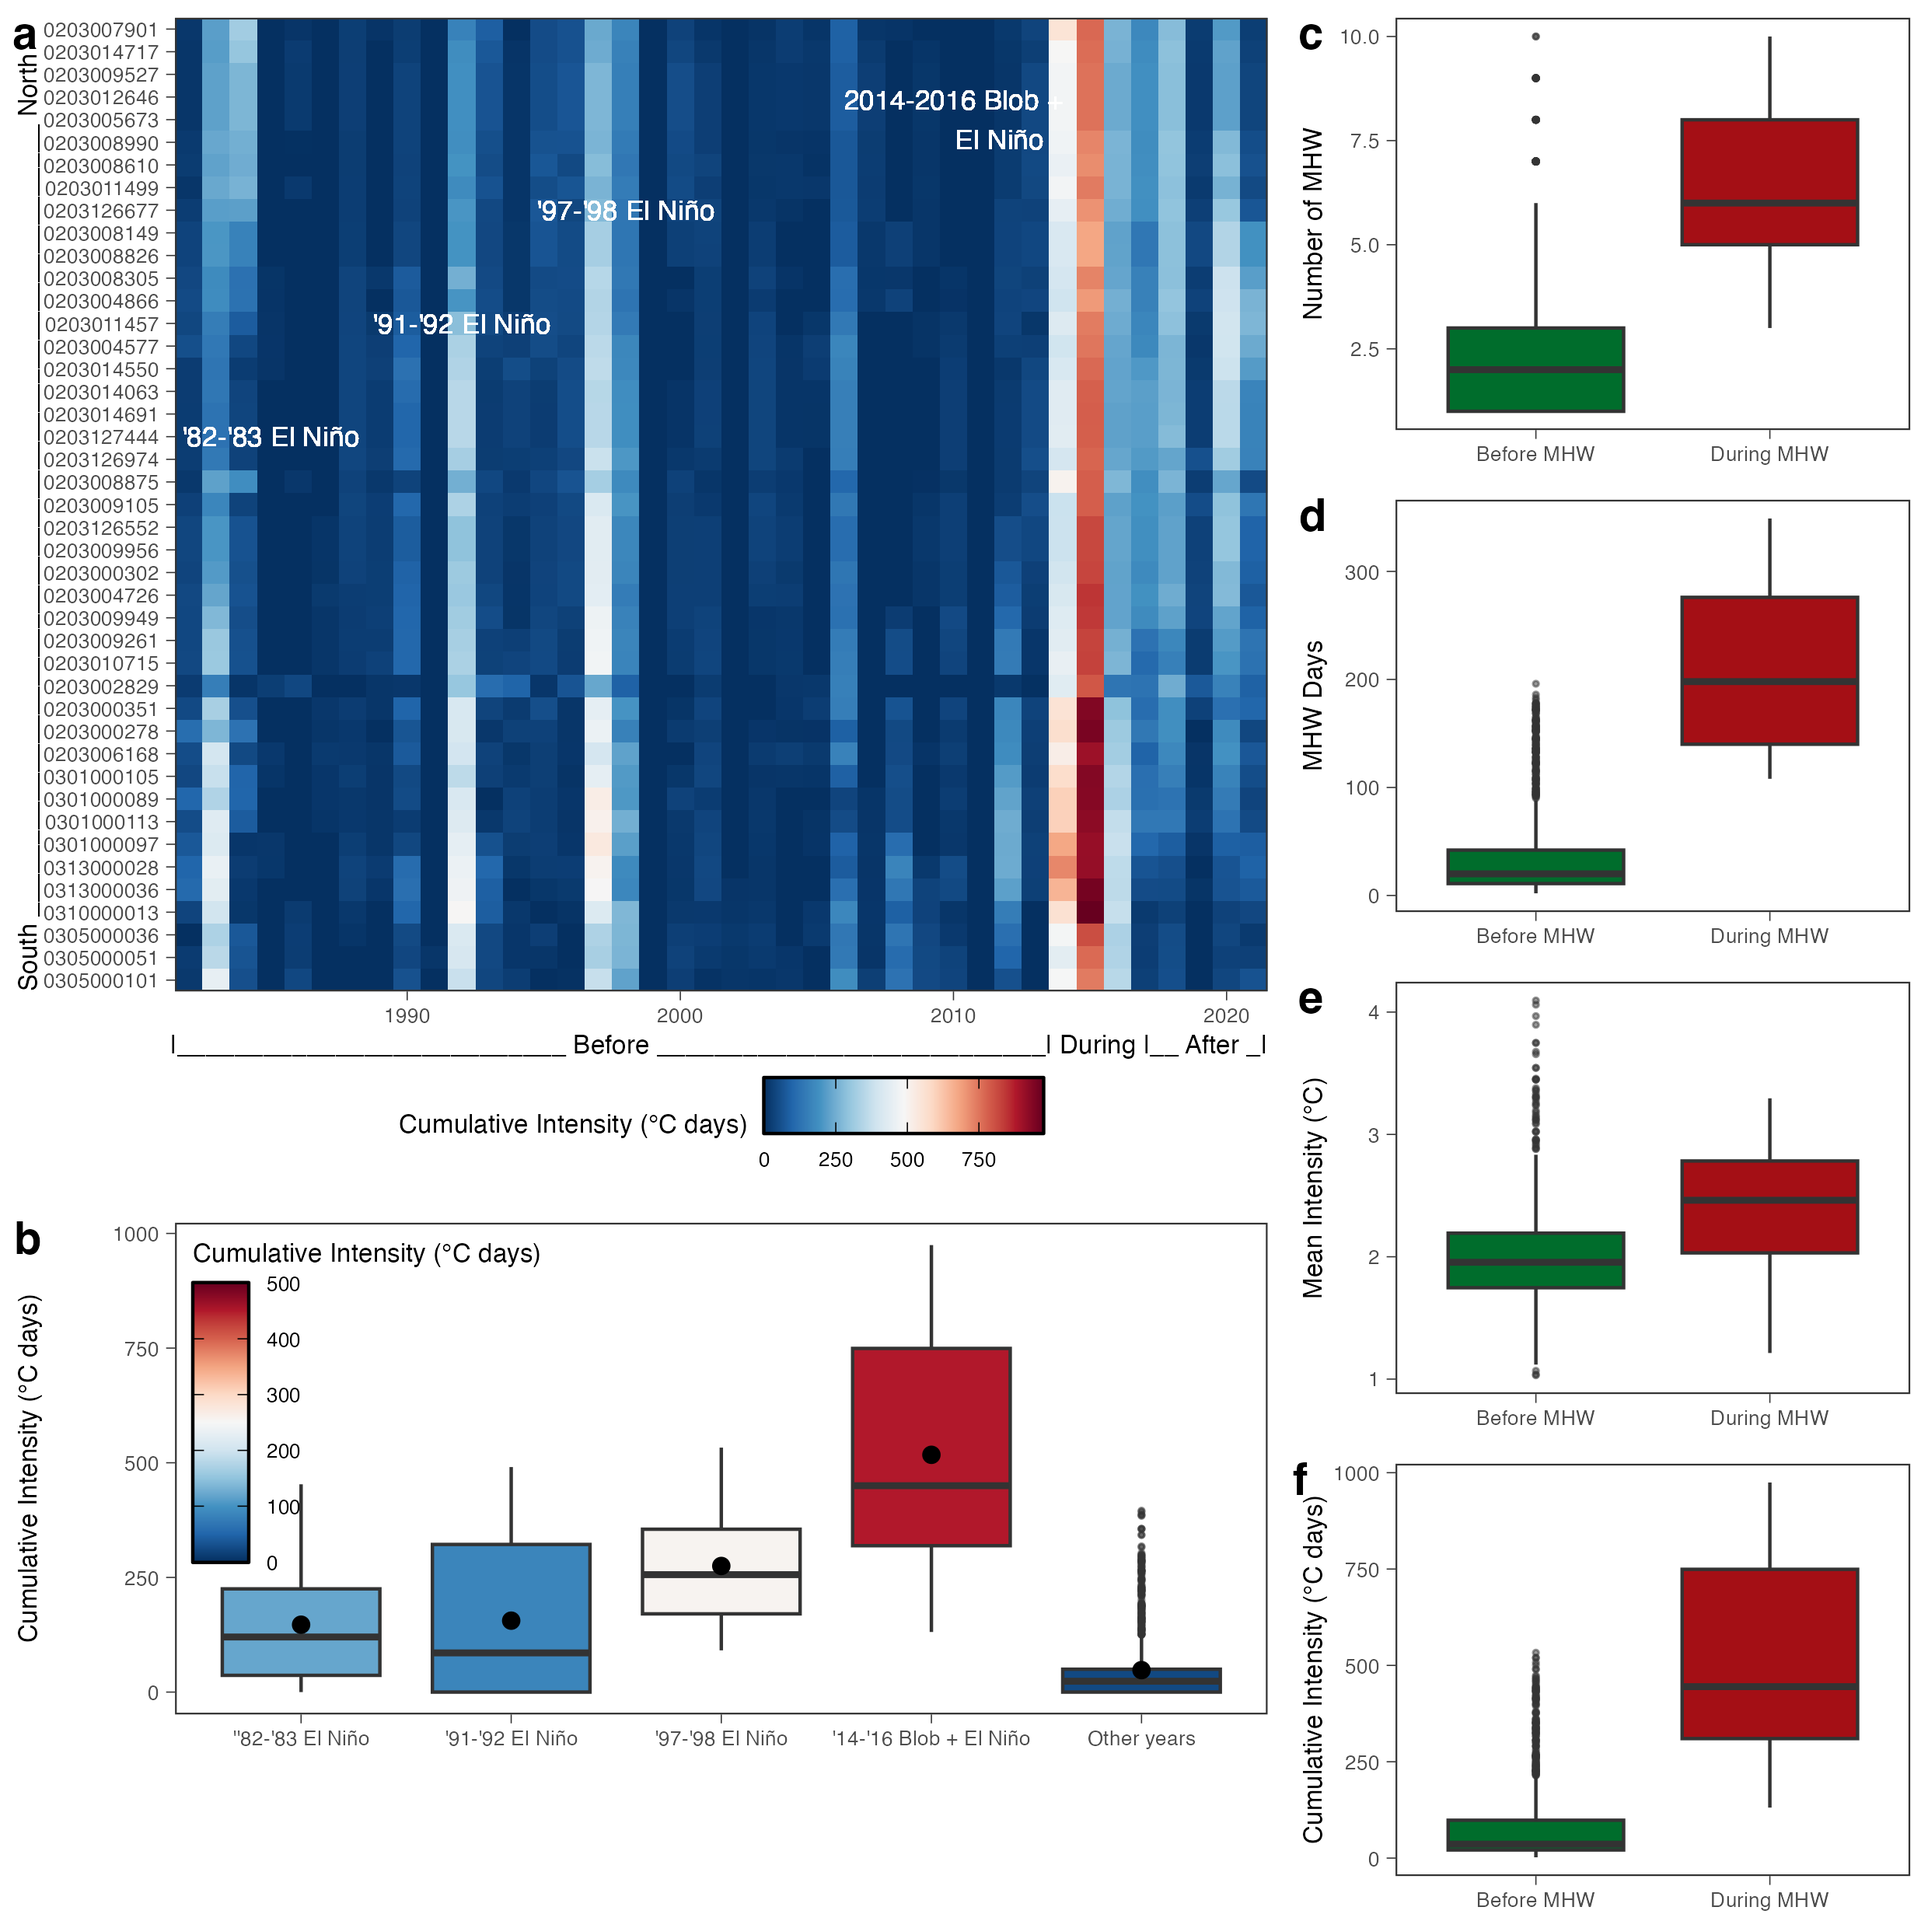
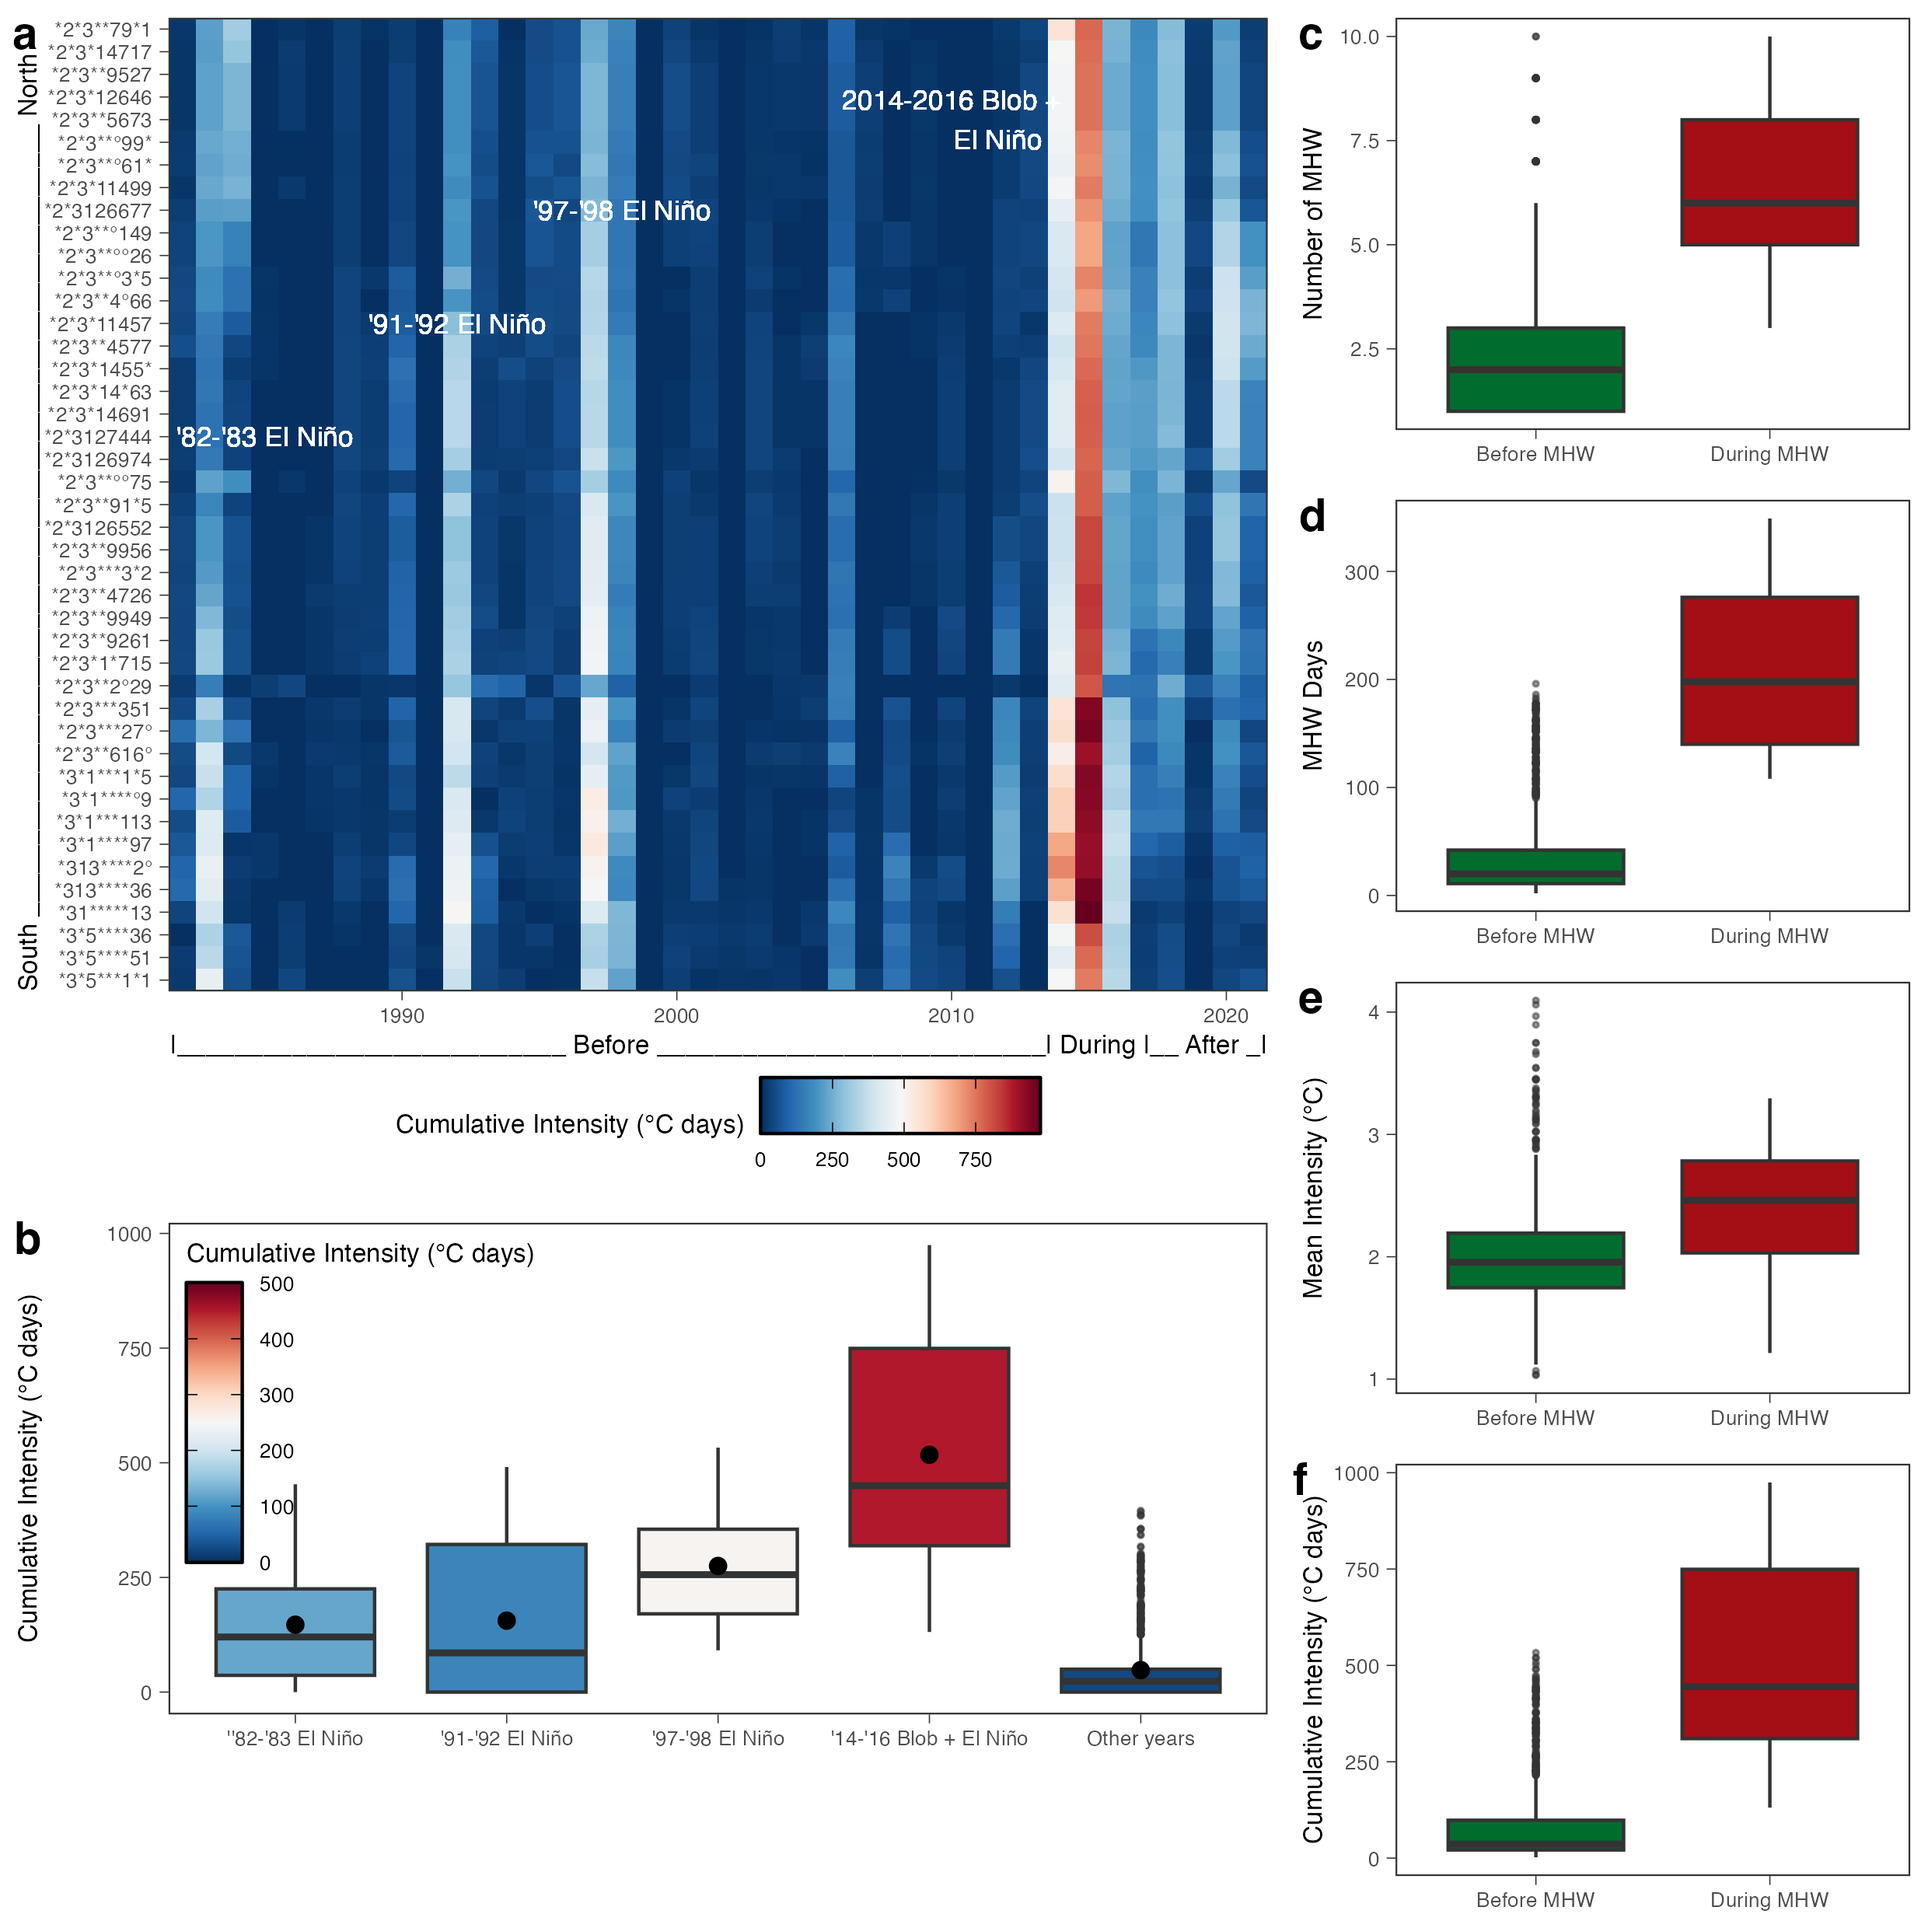
Anonimized EU RNPAs

diff --git a/results/tab/tabS05_hist_max_mhw_ref_points.tex b/results/tab/tabS05_hist_max_mhw_ref_points.tex
@@ -6,49 +6,49 @@
 \toprule
 RNPA of Economic Unit & Year & Lobster & Sea Cucumber & Sea Urchin\\
 \midrule
-0203000278 & 2015 & 950.17 & - & -\\
-0203000302 & 2015 & 822.83 & 818.44 & 818.44\\
-0203000351 & 2015 & 939.12 & - & -\\
-0203002829 & 2015 & 794.85 & - & -\\
-0203004726 & 2015 & 845.84 & 845.84 & 845.84\\
-0203005673 & 2015 & 755.16 & - & 755.16\\
-0203006168 & 2015 & 903.78 & - & -\\
-0203007901 & 2015 & 768.87 & - & -\\
-0203008305 & 2015 & 729.3 & - & -\\
-0203008990 & 2015 & 741.31 & - & 721.39\\
-0203009261 & 2015 & 824.58 & - & -\\
-0203010715 & 2015 & 826.63 & - & -\\
-0203014063 & 2015 & 779.77 & - & -\\
-0203126974 & 2015 & 773 & - & -\\
-0301000089 & 2015 & 933.56 & 933.56 & -\\
-0301000097 & 2015 & 911.87 & - & -\\
-0301000105 & 2015 & 936.11 & 936.11 & -\\
-0301000113 & 2015 & 924.96 & - & -\\
-0305000036 & 2015 & 809.06 & - & -\\
-0305000051 & 2015 & 765.58 & - & -\\
-0305000101 & 2015 & 741.68 & - & -\\
-0310000013 & 2015 & 974.58 & - & -\\
-0313000028 & 2015 & 912.74 & - & -\\
-0313000036 & 2015 & 955.94 & - & -\\
-0203008149 & 2015 & - & 677.57 & 677.57\\
-0203008875 & 2015 & - & 783.46 & 782.97\\
-0203014550 & 2015 & - & 766.65 & 766.64\\
-0203126677 & 2015 & - & 708.39 & 708.49\\
-0203127444 & 2015 & - & 782.03 & -\\
-0203004577 & 2015 & - & - & 749.29\\
-0203004866 & 2015 & - & - & 697.56\\
-0203008610 & 2015 & - & - & 716.24\\
-0203008826 & 2015 & - & - & 677.49\\
-0203009105 & 2015 & - & - & 783.46\\
-0203009527 & 2015 & - & - & 755.16\\
-0203009949 & 2015 & - & - & 839.38\\
-0203009956 & 2015 & - & - & 818.44\\
-0203011457 & 2015 & - & - & 741\\
-0203011499 & 2015 & - & - & 741.9\\
-0203012646 & 2015 & - & - & 755.16\\
-0203014691 & 2015 & - & - & 782.4\\
-0203014717 & 2015 & - & - & 761.28\\
-0203126552 & 2015 & - & - & 818.44\\
+*2*3***27° & 2015 & 950.17 & - & -\\
+*2*3***3*2 & 2015 & 822.83 & 818.44 & 818.44\\
+*2*3***351 & 2015 & 939.12 & - & -\\
+*2*3**2°29 & 2015 & 794.85 & - & -\\
+*2*3**4726 & 2015 & 845.84 & 845.84 & 845.84\\
+*2*3**5673 & 2015 & 755.16 & - & 755.16\\
+*2*3**616° & 2015 & 903.78 & - & -\\
+*2*3**79*1 & 2015 & 768.87 & - & -\\
+*2*3**°3*5 & 2015 & 729.3 & - & -\\
+*2*3**°99* & 2015 & 741.31 & - & 721.39\\
+*2*3**9261 & 2015 & 824.58 & - & -\\
+*2*3*1*715 & 2015 & 826.63 & - & -\\
+*2*3*14*63 & 2015 & 779.77 & - & -\\
+*2*3126974 & 2015 & 773 & - & -\\
+*3*1****°9 & 2015 & 933.56 & 933.56 & -\\
+*3*1****97 & 2015 & 911.87 & - & -\\
+*3*1***1*5 & 2015 & 936.11 & 936.11 & -\\
+*3*1***113 & 2015 & 924.96 & - & -\\
+*3*5****36 & 2015 & 809.06 & - & -\\
+*3*5****51 & 2015 & 765.58 & - & -\\
+*3*5***1*1 & 2015 & 741.68 & - & -\\
+*31*****13 & 2015 & 974.58 & - & -\\
+*313****2° & 2015 & 912.74 & - & -\\
+*313****36 & 2015 & 955.94 & - & -\\
+*2*3**°149 & 2015 & - & 677.57 & 677.57\\
+*2*3**°°75 & 2015 & - & 783.46 & 782.97\\
+*2*3*1455* & 2015 & - & 766.65 & 766.64\\
+*2*3126677 & 2015 & - & 708.39 & 708.49\\
+*2*3127444 & 2015 & - & 782.03 & -\\
+*2*3**4577 & 2015 & - & - & 749.29\\
+*2*3**4°66 & 2015 & - & - & 697.56\\
+*2*3**°61* & 2015 & - & - & 716.24\\
+*2*3**°°26 & 2015 & - & - & 677.49\\
+*2*3**91*5 & 2015 & - & - & 783.46\\
+*2*3**9527 & 2015 & - & - & 755.16\\
+*2*3**9949 & 2015 & - & - & 839.38\\
+*2*3**9956 & 2015 & - & - & 818.44\\
+*2*3*11457 & 2015 & - & - & 741\\
+*2*3*11499 & 2015 & - & - & 741.9\\
+*2*3*12646 & 2015 & - & - & 755.16\\
+*2*3*14691 & 2015 & - & - & 782.4\\
+*2*3*14717 & 2015 & - & - & 761.28\\
+*2*3126552 & 2015 & - & - & 818.44\\
 \bottomrule
 \end{tabular}
 \end{table}
